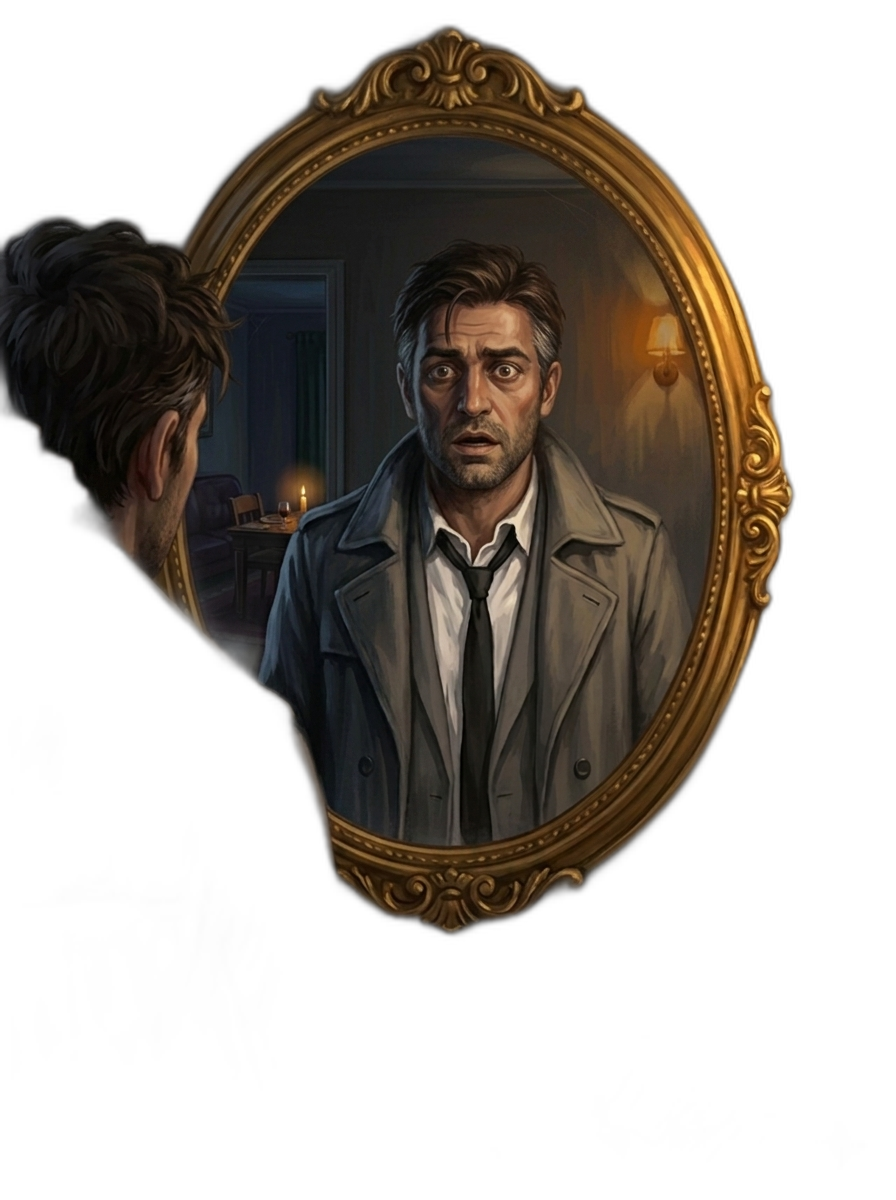
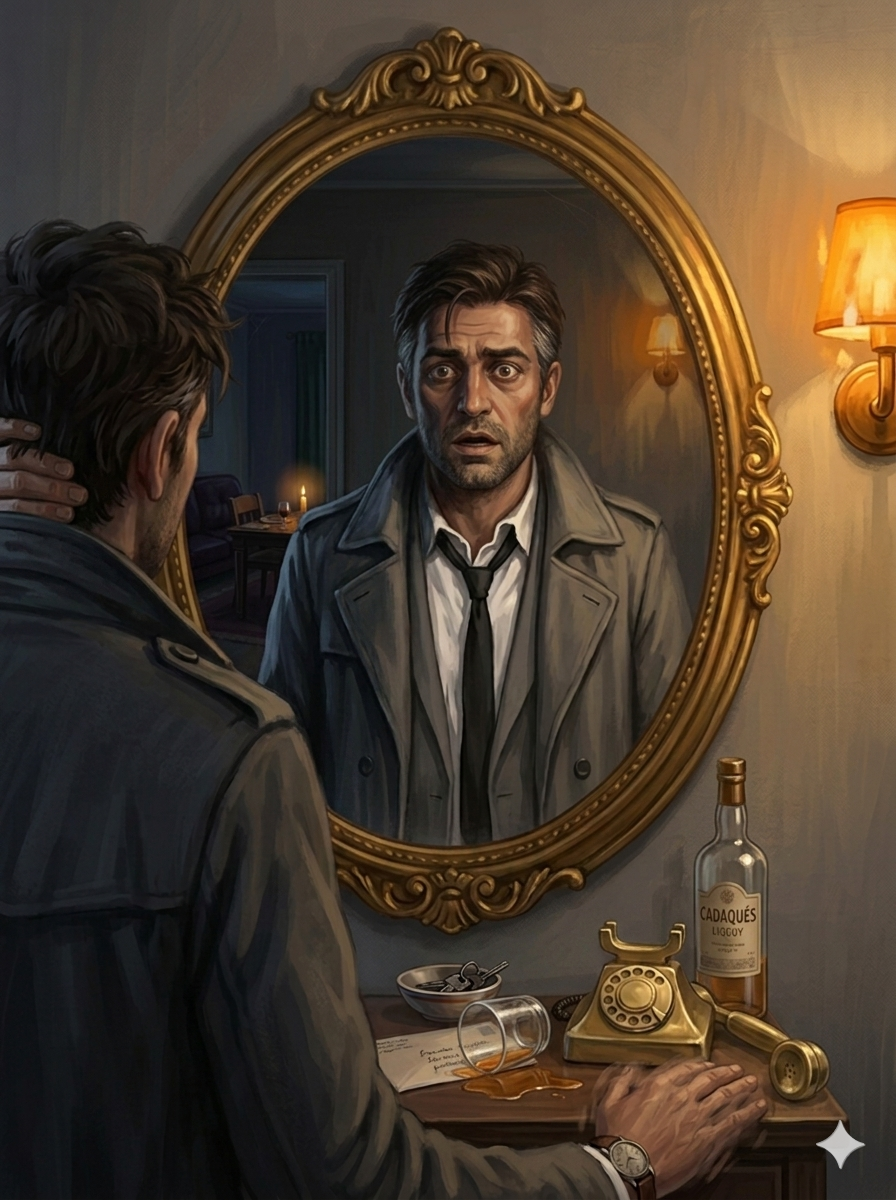
fix(caso8): retrato de Roberto Mora con su escena horneada (sin compositar)
El retrato de Roberto Mora (espejo + reflejo + nuca + console table +
teléfono + lámpara de pared + doorway al salón visible en el reflejo)
es una composición auto-suficiente — YA es toda la escena. Cualquier
intento de compositarlo sobre un escenario aparte (recibidor con su
propio marco) producía un doble marco y cropping de la cara.

Cambios:
- Restaurados los 3 RobertoMora-*.png desde el commit 2b7aba2
  (Detectiveassets), revirtiendo el rembg que les quitó la escena
  horneada cuando los procesé como sospechosos normales.
- scripts/rembg_suspects.py: nueva constante GLOBAL_EXCLUDE con los
  3 archivos de Roberto Mora para que futuros runs (--case=8) ya no
  los reprocesen.
- css/screens/game.css: .room__scene.scene-caso8-recibidor ahora usa
  bg sólido oscuro (#0f0805) en lugar de Escenario-Recibidor.png, y
  el retrato se muestra al 100% (height:100%, max-width:100%, scale:1,
  object-fit:contain). Sin vignettes, sin scale-ups, sin alinear marcos
  con un fondo que ya no se necesita.
- Escenario-Recibidor.png se queda en el repo por si se usa para algún
  beat narrativo del Acto III (los ending blocks pueden referenciarlo),
  pero ya no se usa en la pantalla de juego de la cuarta tarjeta.

diff --git a/css/screens/game.css b/css/screens/game.css
@@ -379,39 +379,28 @@
 }
 
 /* Override para la "cuarta tarjeta" — Roberto Mora interrogándose en
-   el espejo del recibidor de su piso. El escenario propio aporta el
-   contexto (papel granate, console table, puerta al salón, coat rack
-   con gabardina), pero el generador dibujó un marco de espejo dentro
-   del escenario aunque el prompt pedía un óvalo vacío. Si compositamos
-   el retrato (que ya trae su propio marco) tal cual, se ven DOS
-   marcos solapados. Lo resolvemos en dos pasos:
-   1) ::before añade una elipse oscura centrada que tapa el marco
-      dibujado por el generador (queda como hueco oscuro donde caerá
-      el espejo "real" del retrato).
-   2) El retrato se agranda y se ancla al centro vertical (no a flex-
-      end) para que su marco caiga justo encima del hueco oscuro, y
-      queda como un único marco coherente. */
+   el espejo del recibidor de su piso. CLAVE: el retrato de Roberto
+   Mora YA incluye toda la escena (recibidor con papel granate, console
+   table con teléfono, lámpara de pared, doorway al salón visible en
+   el reflejo). No se composita sobre un escenario aparte — el retrato
+   ES la escena. Para preservar esto:
+   - No se aplica rembg a RobertoMora-*.png (excluidos en scripts/
+     rembg_suspects.py). El retrato viene con la escena horneada.
+   - El bg de la pantalla es un color oscuro sólido que solo se ve si
+     el retrato no llena el slot por completo (letterbox lateral).
+   - El retrato se muestra al 100% sin scale-up para que no se recorte
+     la cara del detective. */
 .room__scene.scene-caso8-recibidor {
-  background-image: url('../../assets/img/suspects/Caso8/Escenario/Escenario-Recibidor.png');
-  align-items: center; /* portrait centrado vertical para alinear con el hueco */
-}
-
-.room__scene.scene-caso8-recibidor::before {
-  content: '';
-  position: absolute;
-  inset: 0;
-  /* Mancha oscura cubriendo donde el escenario dibujó su marco. Si
-     visualmente queda algo desalineado, ajustar `at 50% 38%` o
-     reducir el tamaño de la elipse. */
-  background: radial-gradient(ellipse 28% 38% at 50% 38%, rgba(10,5,2,0.96) 0%, rgba(10,5,2,0.55) 65%, transparent 90%);
-  pointer-events: none;
-  z-index: 0;
+  background-image: none;
+  background: #0f0805;
+  align-items: center;
 }
 
 .room__scene.scene-caso8-recibidor .portrait__img {
-  --portrait-scale: 1.55;
-  height: 88%;
-  max-width: 80%;
+  --portrait-scale: 1;
+  height: 100%;
+  max-width: 100%;
+  object-fit: contain;
   object-position: center;
 }
 

diff --git a/scripts/rembg_suspects.py b/scripts/rembg_suspects.py
@@ -32,6 +32,16 @@ SUSPECT_DIRS = [
 ELENA_DIR = ROOT / "assets" / "img" / "suspects"
 ELENA_EXCLUDE = {"Elena-Despedida.png", "Elena-Ausente.png"}
 
+# Excepciones globales por nombre de archivo: estos retratos traen su
+# escena horneada (recibidor con espejo, console table, lámpara) y no
+# son simples retratos sobre fondo neutro. rembg les eliminaría la
+# escena que es parte intencional del asset.
+GLOBAL_EXCLUDE = {
+    "RobertoMora-Neutral.png",
+    "RobertoMora-Pensativo.png",
+    "RobertoMora-Nervioso.png",
+}
+
 def collect_elena_portraits():
     """Devuelve los Elena-*.png que SÍ se procesan (idle + hablando)."""
     if not ELENA_DIR.is_dir():
@@ -61,6 +71,9 @@ def main():
             files.extend(sorted(d.glob("*.png")))
     if not case_filter:
         files.extend(collect_elena_portraits())
+
+    # Excluir retratos con escena horneada (ej. Roberto Mora con su recibidor)
+    files = [f for f in files if f.name not in GLOBAL_EXCLUDE]
 
     print(f"Procesando {len(files)} imágenes...")
     failures = []